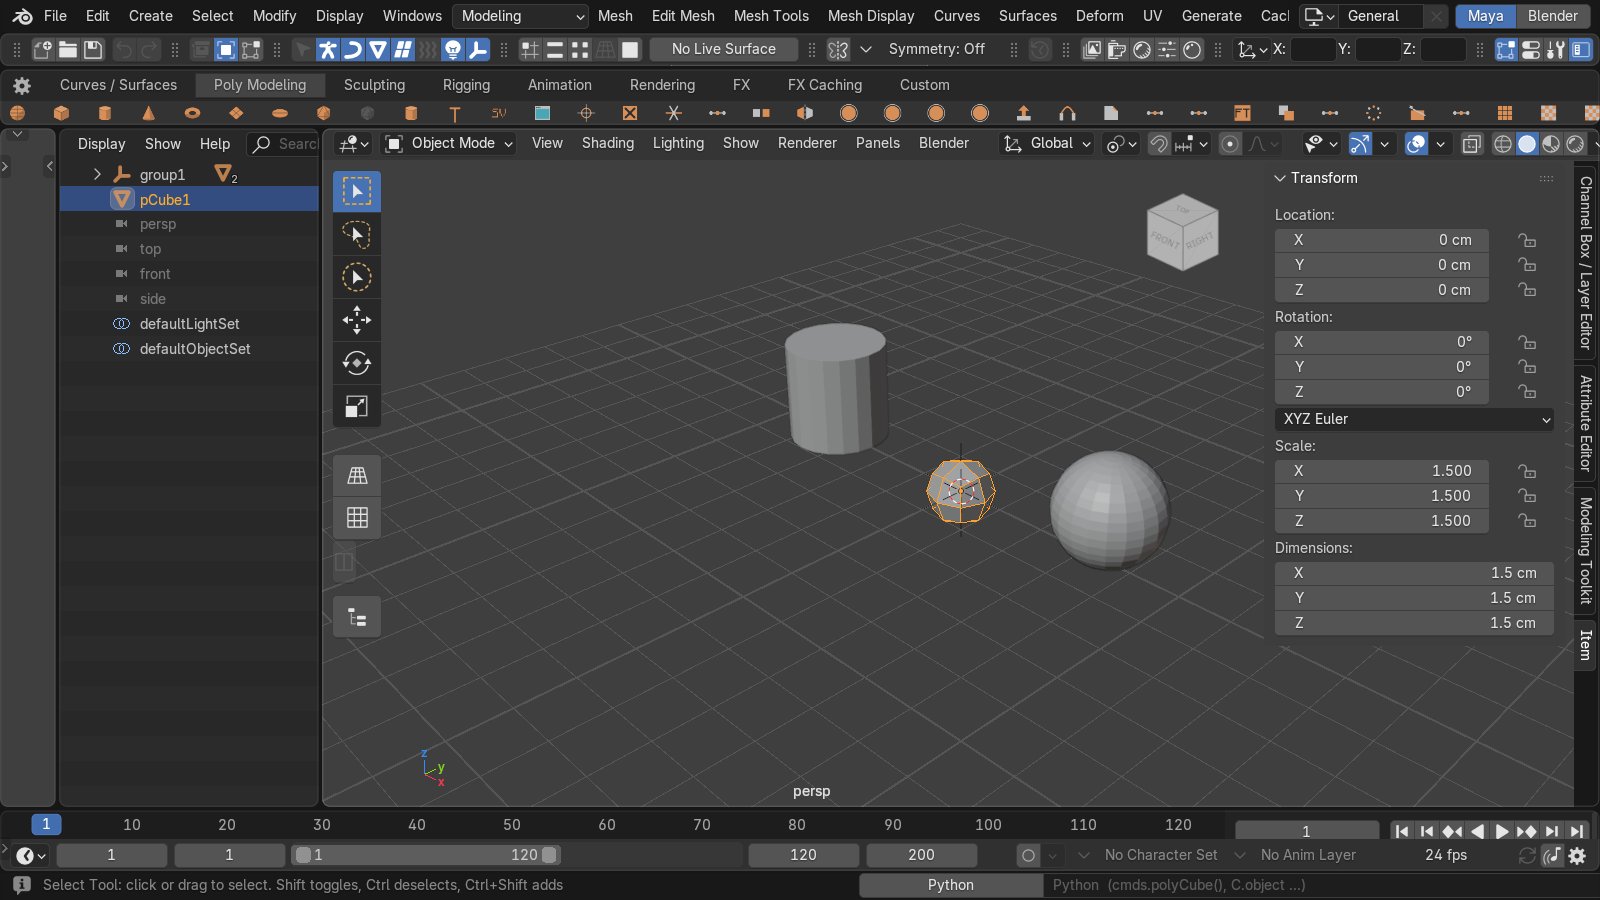
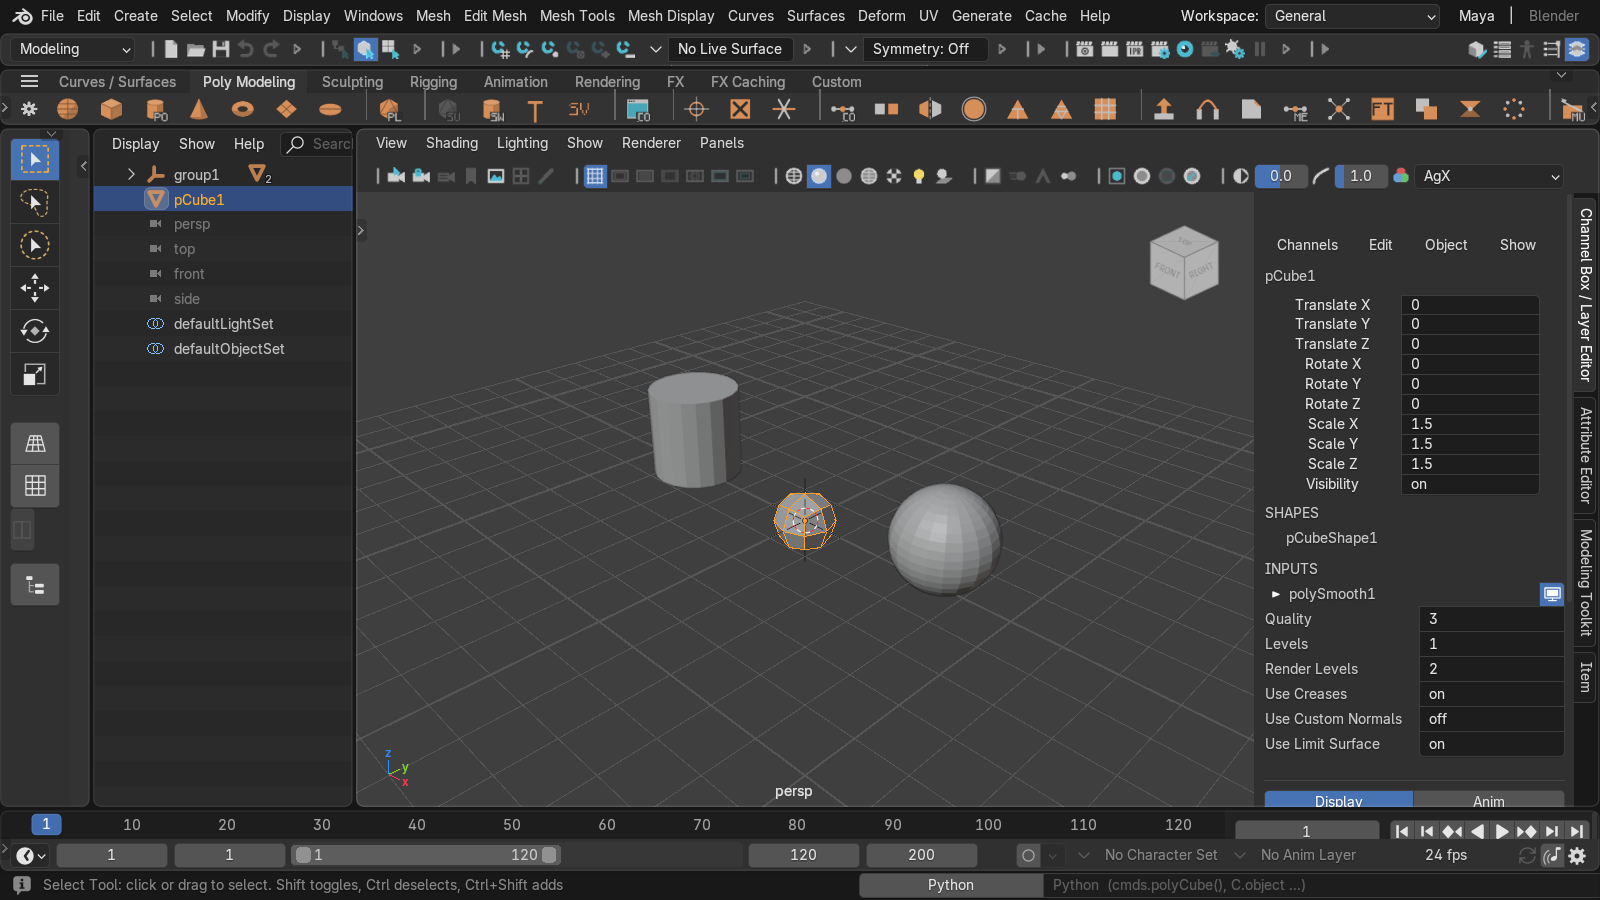
Extension guidelines: no sys.modules entries, CC0 assets, no bl_info in the extension build
- import maya.cmds now works only inside the Command Line / shelf / Script
  Editor namespace through its own __builtins__.__import__; nothing is put
  into sys.modules (test checks enable, use and disable).
- Every non-code file in the package is kit-made and listed in
  ASSETS_LICENSE.txt as CC0-1.0; the manifest declares SPDX:CC0-1.0 next to
  GPL-3.0-or-later (extension validate passes).
- The extension source has no bl_info; build.py adds it to the legacy zip.
- release_check switches the dock tab through allset_dock (all checks pass)
  and its screenshots show the current UI.

diff --git a/tests/test_step114_guidelines.py b/tests/test_step114_guidelines.py
@@ -1,0 +1,110 @@
+"""Step 114: the two extension guideline violations of the audit (docs/distribution/extensions_audit.md) stay fixed.
+
+1. No global module dictionary / module path changes: enabling, using and disabling the kit leaves ``sys.modules``
+   without any ``maya`` entry and ``sys.path`` unchanged; ``import maya.cmds`` works only inside the Command Line /
+   shelf / Script Editor namespace (``command_line/runner._import``).
+2. Assets: every non-code file in the package is a kit-made file listed in ``ASSETS_LICENSE.txt`` (CC0-1.0, also
+   in the manifest's ``license``); the extension zip carries no legacy ``bl_info`` (the legacy zip does).
+"""
+
+import os
+import re
+import sys
+import zipfile
+from importlib import import_module
+
+import bpy
+
+import kit
+
+AUTO_ENABLE = False
+ROOT = os.path.dirname(os.path.dirname(os.path.abspath(__file__)))
+PKG = os.path.join(ROOT, "src", "allset")
+CODE = {".py"}
+TEXT = {"blender_manifest.toml", "LICENSE", "ASSETS_LICENSE.txt"}
+
+
+def test_no_global_module_entries():
+    before_mods, before_path = set(sys.modules), list(sys.path)
+    kit.enable()
+    try:
+        runner = import_module(kit.MODULE + ".command_line.runner")
+        for src in ("import maya.cmds as cmds; cmds.ls()", "from maya import cmds; cmds.ls()"):
+            r = runner.run(src)
+            assert not r.error, (src, r.text)
+        ns = dict(runner.namespace())
+        exec("import maya.cmds as mc\nok = mc.ls is not None", ns)    # a shelf button's namespace copy
+        assert ns["ok"]
+        added = {m for m in set(sys.modules) - before_mods if m == "maya" or m.startswith("maya.")}
+        assert not added, added
+        assert sys.path == before_path, set(sys.path) ^ set(before_path)
+        try:
+            import maya.cmds  # noqa: F401  (outside the namespace: no stand-in)
+            raise AssertionError("maya.cmds importable outside the kit namespace")
+        except ImportError:
+            pass
+    finally:
+        kit.disable()
+    assert not any(m == "maya" or m.startswith("maya.") for m in sys.modules)
+
+
+def test_no_sys_modules_writes_in_source():
+    pat = re.compile(r"sys\.modules\[[^\]]+\]\s*=|sys\.modules\.(setdefault|update)\(|sys\.path\.(insert|append|extend)\(")
+    hits = []
+    for base, dirs, files in os.walk(PKG):
+        dirs[:] = [d for d in dirs if d != "__pycache__"]
+        for name in files:
+            if name.endswith(".py"):
+                path = os.path.join(base, name)
+                for i, line in enumerate(open(path, encoding="utf-8"), 1):
+                    if pat.search(line):
+                        hits.append(f"{os.path.relpath(path, PKG)}:{i}: {line.strip()}")
+    assert not hits, hits
+
+
+def _assets():
+    out = []
+    for base, dirs, files in os.walk(PKG):
+        dirs[:] = [d for d in dirs if d != "__pycache__"]
+        for name in files:
+            rel = os.path.relpath(os.path.join(base, name), PKG).replace(os.sep, "/")
+            if os.path.splitext(name)[1] in CODE or rel in TEXT:
+                continue
+            out.append(rel)
+    return sorted(out)
+
+
+def test_every_asset_is_kit_made_and_cc0():
+    listed = open(os.path.join(PKG, "ASSETS_LICENSE.txt"), encoding="utf-8").read()
+    assets = _assets()
+    assert assets == ["app_template/Allset/splash.png", "app_template/Allset/splash_2x.png",
+                      "app_template/Allset/startup.blend", "theme/studio_grey.xml", "welcome.png"], assets
+    for rel in assets:
+        assert rel in listed, f"{rel} missing from ASSETS_LICENSE.txt"
+    assert "CC0" in listed
+    import tomllib
+    with open(os.path.join(PKG, "blender_manifest.toml"), "rb") as fh:
+        lic = tomllib.load(fh)["license"]
+    assert lic == ["SPDX:GPL-3.0-or-later", "SPDX:CC0-1.0"], lic
+
+
+def test_extension_zip_has_no_bl_info():
+    init = open(os.path.join(PKG, "__init__.py"), encoding="utf-8").read()
+    assert not re.search(r"^bl_info\s*=", init, re.M)
+    sys.path.insert(0, os.path.join(ROOT, "tools"))
+    try:
+        build = import_module("build")
+    finally:
+        sys.path.pop(0)
+    version = build.manifest_value("version")
+    ext = os.path.join(ROOT, "dist", f"allset-{version}.zip")
+    assert os.path.exists(ext), ext
+    with zipfile.ZipFile(ext) as zf:
+        text = zf.read("__init__.py").decode("utf-8")
+        assert not re.search(r"^bl_info\s*=", text, re.M)
+        assert "ASSETS_LICENSE.txt" in zf.namelist()
+    tail = build.legacy_bl_info()
+    ns = {}
+    exec(tail, ns)
+    assert ns["bl_info"]["name"] == "Allset for Maya Users" and ns["bl_info"]["version"] == tuple(
+        int(p) for p in version.split("."))

diff --git a/src/allset/command_line/runner.py b/src/allset/command_line/runner.py
@@ -7,10 +7,13 @@
 """
 
 import ast
+import builtins
 import contextlib
+import importlib.util
 import io
 import re
 import traceback
+import types
 
 import bpy
 
@@ -31,17 +34,60 @@ class Result:
         return f"Result({self.text!r}, error={self.error})"
 
 
+# --- `import maya.cmds` inside the namespace only ------------------------------------------------------
+# Extension guideline: no entries in the global module dictionary (docs/distribution/extensions_audit.md, step 114).
+# Code run from the Command Line, shelf buttons and the Script Editor gets its own ``__builtins__`` whose
+# ``__import__`` answers ``maya`` / ``maya.cmds`` with a stand-in package (not in sys.modules) holding the cmds shim;
+# every other import, and any real ``maya`` package (Maya), goes to Python's own import.
+
+_maya_pkg = []
+
+
+def _maya():
+    if not _maya_pkg:
+        from . import cmds_shim
+        pkg = types.ModuleType("maya", "Allset stand-in package: only maya.cmds (cmds_shim)")
+        pkg.__path__ = []
+        pkg.cmds = cmds_shim
+        _maya_pkg.append(pkg)
+    return _maya_pkg[0]
+
+
+def _real_maya():
+    try:
+        return importlib.util.find_spec("maya") is not None
+    except (ImportError, ValueError):
+        return False
+
+
+def _import(name, globals=None, locals=None, fromlist=(), level=0):
+    if level == 0 and name in ("maya", "maya.cmds") and not _real_maya():
+        pkg = _maya()
+        if name == "maya.cmds" and fromlist:
+            return pkg.cmds          # from maya.cmds import ls
+        return pkg                   # import maya / import maya.cmds (as x) / from maya import cmds
+    return builtins.__import__(name, globals, locals, fromlist, level)
+
+
+def _builtins():
+    b = dict(builtins.__dict__)
+    b["__import__"] = _import
+    return b
+
+
 def namespace():
-    """Session namespace: bpy, C, D, cmds (maya.cmds subset); variables persist."""
+    """Session namespace: bpy, C, D, cmds (maya.cmds subset); variables persist. ``import maya.cmds`` works only
+    here (``_import``)."""
     if not _namespace:
         from . import cmds_shim
-        _namespace.update(__name__="__allset_cmd__", bpy=bpy, C=bpy.context, D=bpy.data,
+        _namespace.update(__name__="__allset_cmd__", __builtins__=_builtins(), bpy=bpy, C=bpy.context, D=bpy.data,
                           cmds=cmds_shim, mc=cmds_shim)
     return _namespace
 
 
 def reset():
     _namespace.clear()
+    _maya_pkg.clear()
     history.clear()
 
 

diff --git a/src/allset/command_line/__init__.py b/src/allset/command_line/__init__.py
@@ -5,11 +5,10 @@
 field, Script Editor button), (:295-298: Help Line);
  #14 (:93-94). Design: 
 「계획」 4. Python only: MEL is not supported (). ``maya.cmds`` is a
-small look-alike (``cmds_shim``), importable as ``import maya.cmds as cmds``.
+small look-alike (``cmds_shim``), importable as ``import maya.cmds as cmds`` in code run from the Command Line,
+shelf buttons and the Script Editor only (``runner._import``; nothing goes into ``sys.modules``, step 114).
 """
 
-import sys
-import types
 
 import bpy
 from bpy.props import StringProperty
@@ -192,31 +191,6 @@ def draw_status_bar(self, context):
     layout.template_status_info()
 
 
-# --- `import maya.cmds` --------------------------------------------------------------------
-
-_installed = []
-
-
-def install_maya_module():
-    """Make ``import maya.cmds`` give the shim, unless a real ``maya`` package exists."""
-    if "maya" in sys.modules:
-        return
-    import importlib.util
-    if importlib.util.find_spec("maya") is not None:
-        return
-    pkg = types.ModuleType("maya", "Allset stand-in package: only maya.cmds (cmds_shim)")
-    pkg.__path__ = []
-    pkg.cmds = cmds_shim
-    sys.modules["maya"] = pkg
-    sys.modules["maya.cmds"] = cmds_shim
-    _installed.extend(("maya", "maya.cmds"))
-
-
-def uninstall_maya_module():
-    while _installed:
-        sys.modules.pop(_installed.pop(), None)
-
-
 classes = (ALLSET_OT_command_line_exec, ALLSET_OT_command_line_language,
            ALLSET_OT_script_editor, ALLSET_MT_command_history)
 
@@ -229,11 +203,9 @@ def register():
         options={'SKIP_SAVE'}, update=_on_command)
     _blender_draw.append(bpy.types.STATUSBAR_HT_header.draw)
     bpy.types.STATUSBAR_HT_header.draw = draw_status_bar
-    install_maya_module()
 
 
 def unregister():
-    uninstall_maya_module()
     bpy.types.STATUSBAR_HT_header.draw = _blender_draw.pop()
     del bpy.types.WindowManager.allset_cmd
     for cls in reversed(classes):

diff --git a/tools/build.py b/tools/build.py
@@ -82,10 +82,29 @@ def build_extension_fallback(out):
             zf.write(path, rel.as_posix())
 
 
+def legacy_bl_info():
+    """The legacy add-on's ``bl_info``, from the manifest (the extension source has none, step 114)."""
+    version = tuple(int(p) for p in manifest_value("version").split("."))
+    blender = tuple(int(p) for p in manifest_value("blender_version_min").split("."))
+    return ("\n\n# Legacy add-on metadata, added by tools/build.py (extensions read blender_manifest.toml).\n"
+            "bl_info = {\n"
+            f"    \"name\": {manifest_value('name')!r},\n"
+            "    \"author\": \"ohnsk\",\n"
+            f"    \"version\": {version!r},\n"
+            f"    \"blender\": {blender!r},\n"
+            "    \"location\": \"Preferences > Add-ons\",\n"
+            f"    \"description\": {manifest_value('tagline')!r},\n"
+            "    \"category\": \"Interface\",\n"
+            "}\n")
+
+
 def build_legacy(out):
     with zipfile.ZipFile(out, "w", zipfile.ZIP_DEFLATED) as zf:
         for path, rel in iter_source_files():
             if rel.name == "blender_manifest.toml":
+                continue
+            if rel.as_posix() == "__init__.py":
+                zf.writestr(("allset" / rel).as_posix(), path.read_text(encoding="utf-8") + legacy_bl_info())
                 continue
             zf.write(path, ("allset" / rel).as_posix())
 

diff --git a/src/allset/__init__.py b/src/allset/__init__.py
@@ -1,9 +1,9 @@
 # SPDX-License-Identifier: GPL-3.0-or-later
 """Allset: make Blender feel like Maya (keymap, interaction, UI, concepts).
 
-Shipped as one Blender 4.2+ extension (). The same
-source also builds a legacy add-on zip, which is why ``bl_info`` is kept;
-extensions read ``blender_manifest.toml`` instead and ignore it.
+Shipped as one Blender 4.2+ extension (); Blender reads ``blender_manifest.toml``. The
+legacy add-on zip gets its ``bl_info`` from ``tools/build.py`` (step 114: the extension build carries none, as the
+extension guidelines recommend).
 
 Each feature area is a sub-package with its own ``register()`` /
 ``unregister()``. Order matters: preferences first (others may read them),
@@ -11,16 +11,6 @@ then the Blender-preferences preset, keymap last (keymap items reference
 operators registered before it). ``CORE`` stays registered; ``MODE`` is
 Maya mode, switched on and off at run time by ``switch`` (step 60).
 """
-
-bl_info = {
-    "name": "Allset",
-    "author": "ohnsk",
-    "version": (0, 1, 0),
-    "blender": (4, 2, 0),
-    "location": "Preferences > Add-ons > Allset",
-    "description": "Maya-style keymap, interaction, UI and concepts for Maya users",
-    "category": "Interface",
-}
 
 from . import (preferences, switch, prefs_preset, operators, ui, command_line, marking, theme,
                app_template, first_start, keymap)

diff --git a/tests/test_step7_top_ui.py b/tests/test_step7_top_ui.py
@@ -444,18 +444,15 @@ def test_command_field_runs_through_operator():
 
 
 def test_import_maya_cmds():
-    assert sys.modules.get("maya.cmds") is cmds
-    r = runner.run("import maya.cmds as mc; mc.ls is cmds.ls")
-    assert r.text == "# Result: True #", r
-
-
-def test_maya_module_removed_on_disable():
-    kit.disable()
-    try:
-        assert "maya" not in sys.modules and "maya.cmds" not in sys.modules
-    finally:
-        kit.enable()
-    assert "maya.cmds" in sys.modules
+    """Every import form works inside the Command Line namespace (step 114: without sys.modules entries)."""
+    assert "maya" not in sys.modules and "maya.cmds" not in sys.modules
+    for src in ("import maya.cmds as mc; mc.ls is cmds.ls", "from maya import cmds as c2; c2.ls is cmds.ls",
+                "import maya.cmds; maya.cmds.ls is cmds.ls", "from maya.cmds import ls; ls is cmds.ls"):
+        r = runner.run(src)
+        assert r.text == "# Result: True #", (src, r)
+    assert "maya" not in sys.modules and "maya.cmds" not in sys.modules
+    r = runner.run("import json; json.dumps(1)")
+    assert r.text == "# Result: '1' #", r
 
 
 def test_help_line_text():

diff --git a/tools/release_shots.py b/tools/release_shots.py
@@ -44,9 +44,15 @@ def goto_tab(category, then):
     def s_tab():
         r = ui_region()
         if r.active_panel_category != category and C["tries"] < 12:
+            # the dock's own switch (WindowManager.allset_dock sets the sidebar tab, step 99): since the dock became
+            # three tabs, Ctrl+wheel over the tab strip moved past the Channel Box onto Blender's C "Item" tab
             C["tries"] += 1
-            ev('MOUSEMOVE', 'NOTHING', x=r.x + r.width - 8, y=r.y + r.height - 60)
-            ev('WHEELDOWNMOUSE', 'PRESS', ctrl=True)
+            ae = import_module(MODULE + ".ui.attribute_editor")
+            dock = {v: k for k, v in ae.DOCK_CATEGORIES.items()}.get(category)
+            if dock is not None:
+                with v3d_override():
+                    bpy.context.window_manager.allset_dock = dock
+            redraw()
             sim._steps.insert(0, s_tab)
             return
         C["tries"] = 0

diff --git a/tests/test_step61_distribution.py b/tests/test_step61_distribution.py
@@ -41,7 +41,7 @@ def _code_lines(text):
 def test_manifest_fields():
     m = _manifest()
     assert "blender" not in m["name"].lower(), "ToS 2.1: no 'Blender' in the extension name"
-    assert m["license"] == ["SPDX:GPL-3.0-or-later"], m["license"]
+    assert m["license"] == ["SPDX:GPL-3.0-or-later", "SPDX:CC0-1.0"], m["license"]   # code GPL, kit-made assets CC0 (step 114)
     tagline = m["tagline"]
     assert len(tagline) <= 64 and tagline[-1] not in ".!?,;:", tagline
     for key, reason in m.get("permissions", {}).items():
